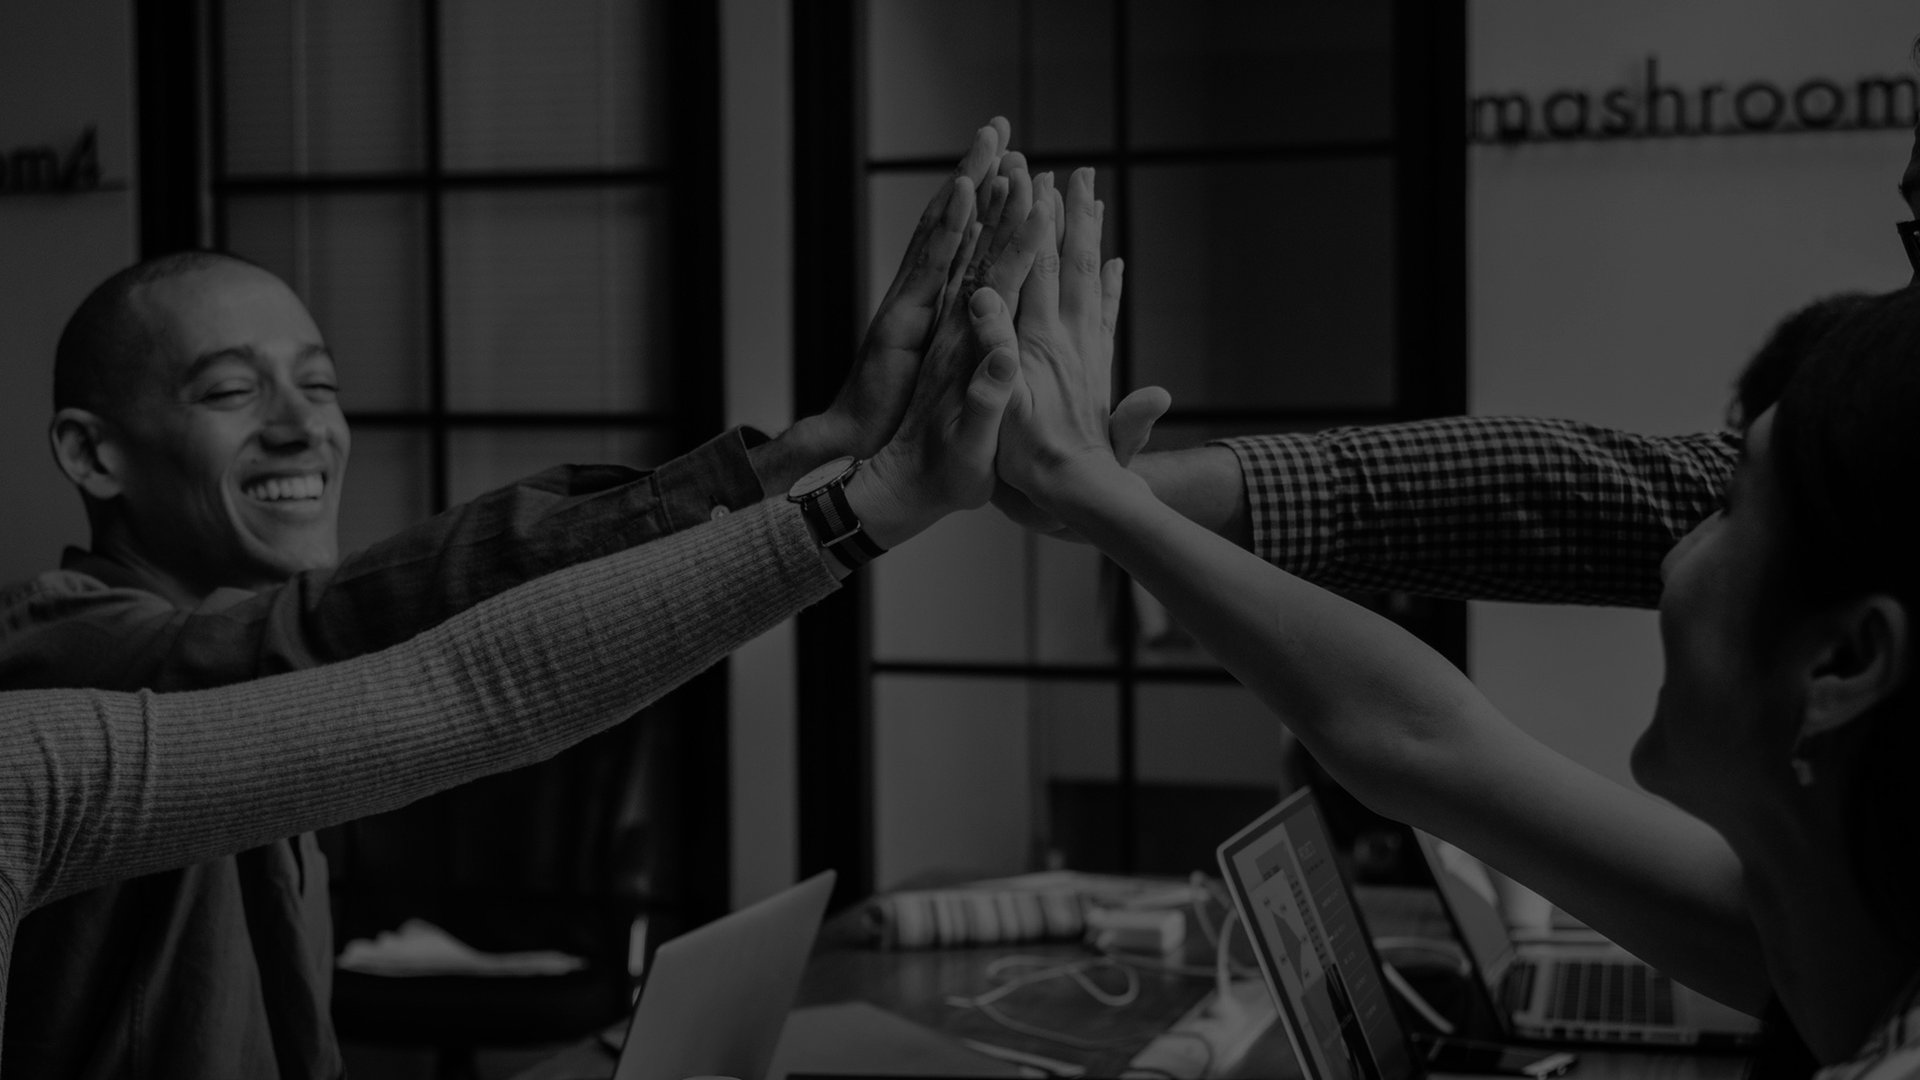
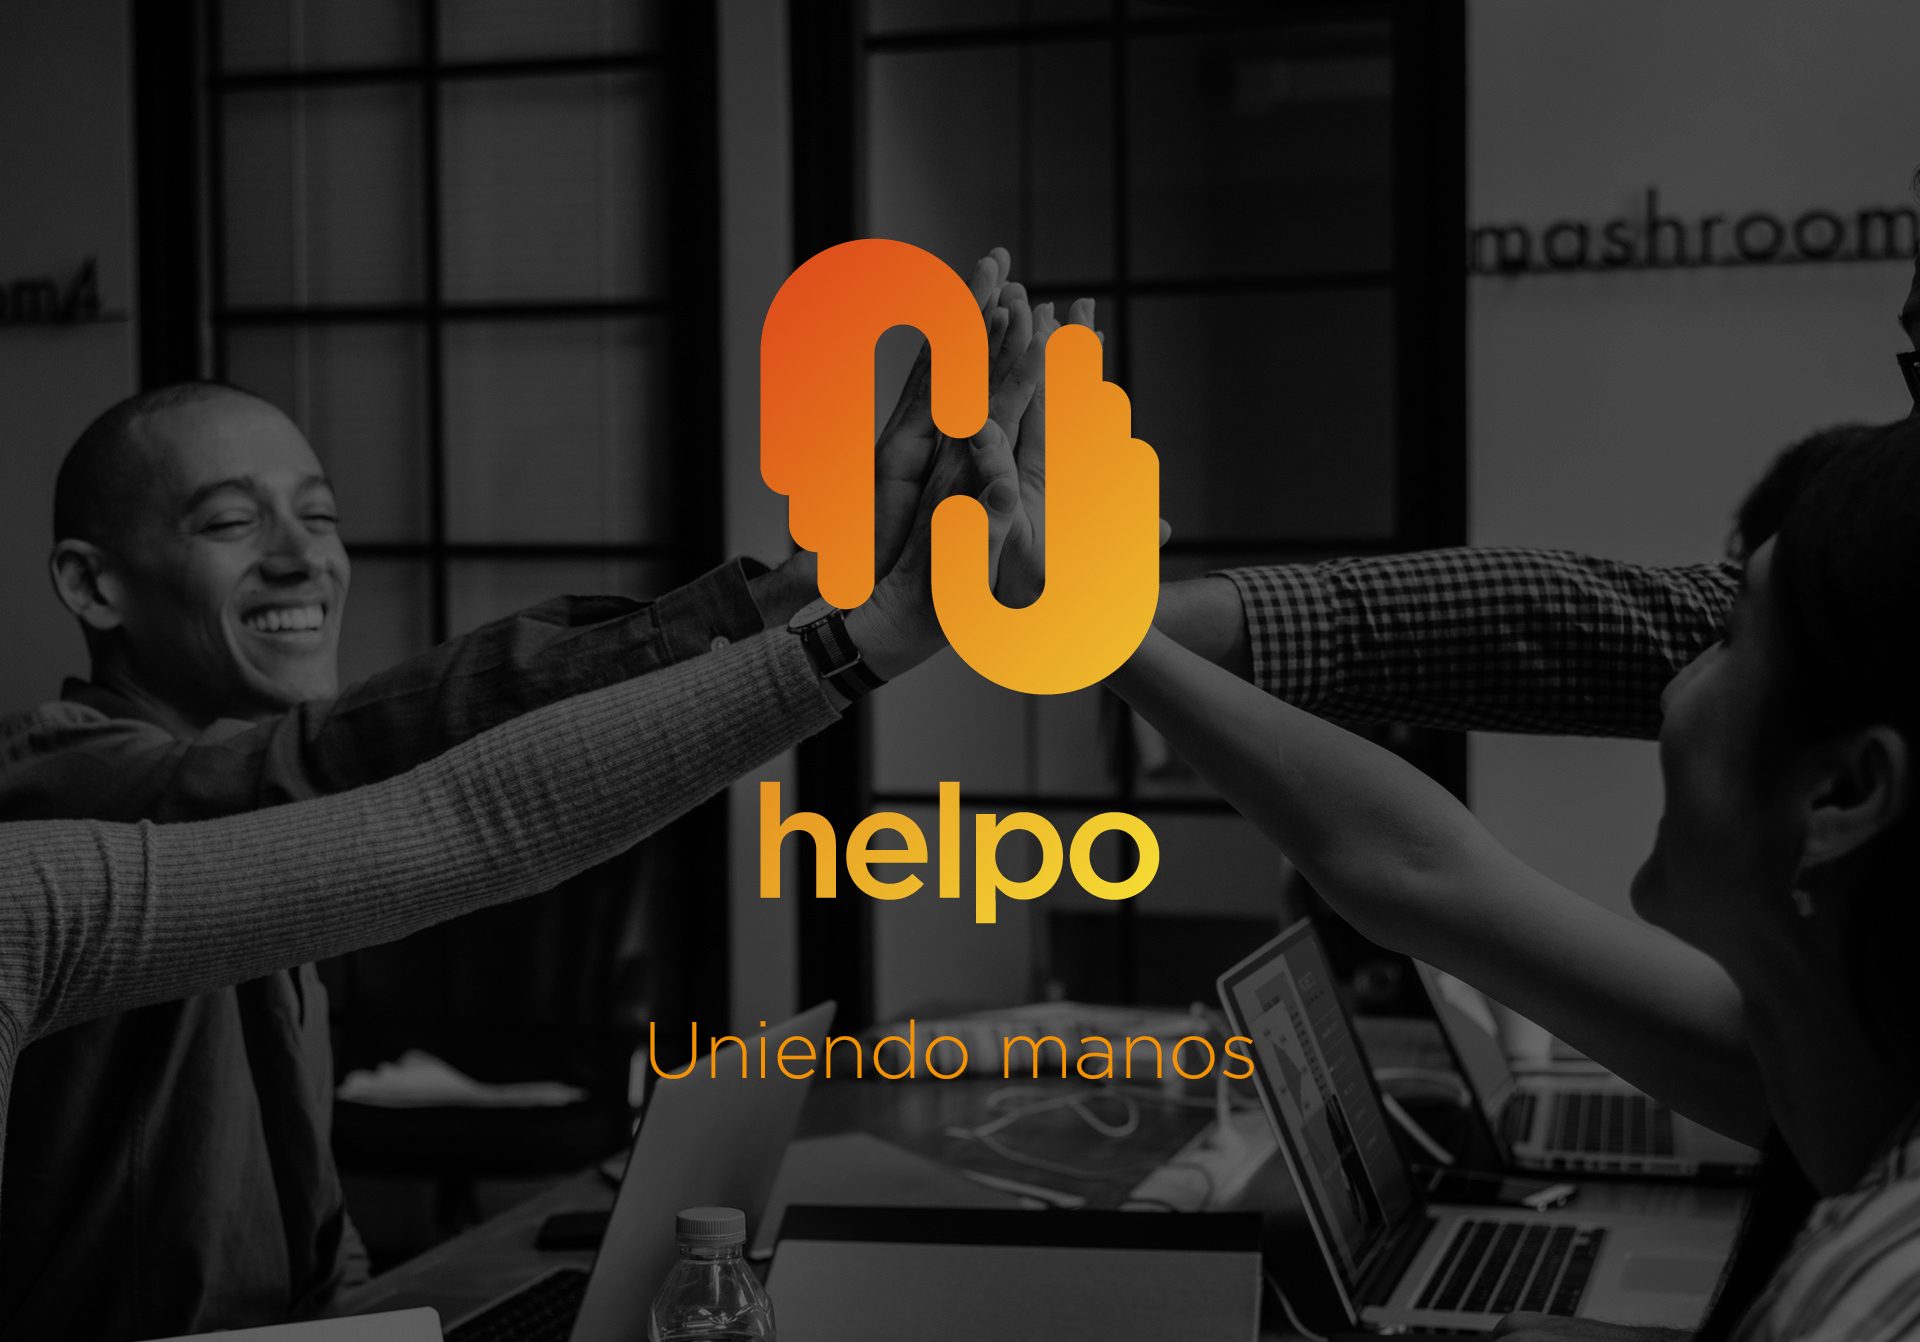
Nueva imagen noauth

diff --git a/helpo-web/src/routesNoAuth.js b/helpo-web/src/routesNoAuth.js
@@ -21,7 +21,7 @@ const Dashboard = Loadable({
 // https://github.com/ReactTraining/react-router/tree/master/packages/react-router-config
 const routes = [
   { path: '/noAuth', exact: true, name: 'Home', component: NoAuthLayout },
-  { path: '/noAuth/dashboard', name: 'Dashboard', component: Dashboard },
+  { path: '/noAuth/dashboard', name: 'helpo', component: Dashboard },
 
   { path: '/noAuth/actividades/consultar-eventos', name: 'Consultar eventos', component: ConsultarEventosPage },
 
